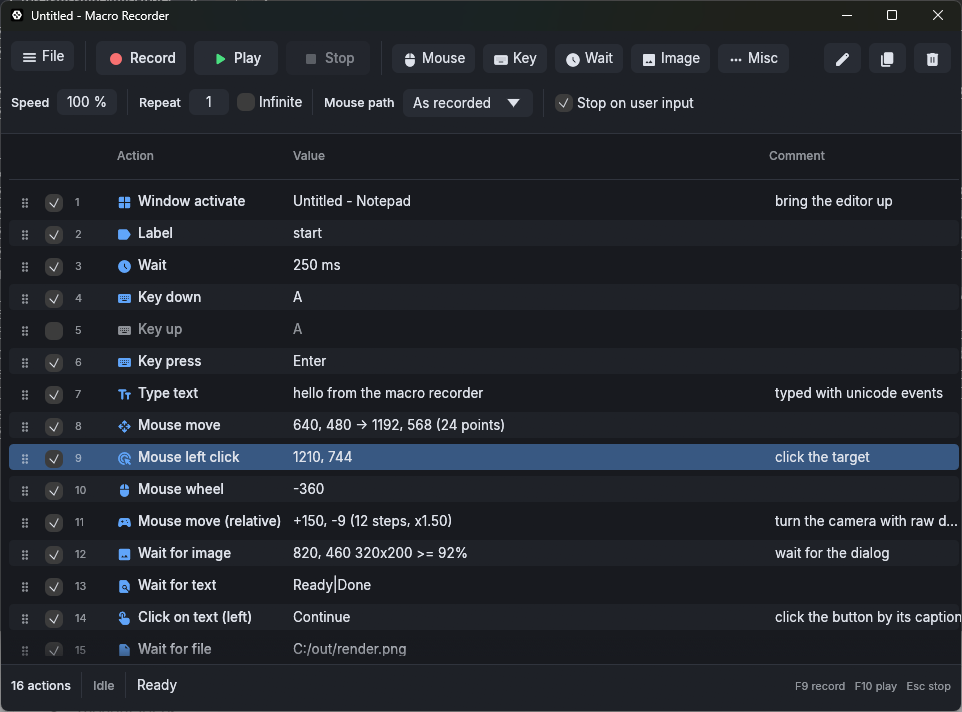
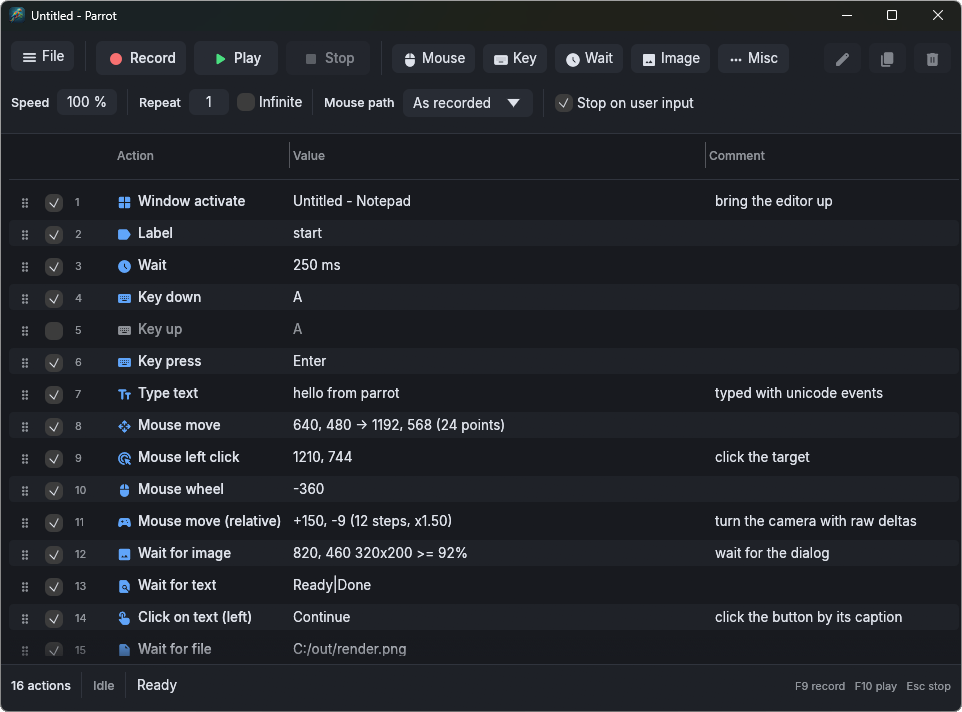
Retake the README screenshot with transparent corners
Captured with a window capture that keeps the alpha channel, so the
rounded corners no longer carry desktop pixels, and the intro now has
breathing room above it.

diff --git a/README.md b/README.md
@@ -4,6 +4,8 @@
 
 A small desktop macro recorder for Windows, written in Rust with egui. Record keyboard and mouse input, edit the resulting action list, and replay it into games and desktop apps. Built for personal automation: sandbox games and repetitive workflows.
 
+<br clear="all"><br>
+
 ![Parrot with a demo macro loaded](docs/screenshot.png)
 
 ## Features
